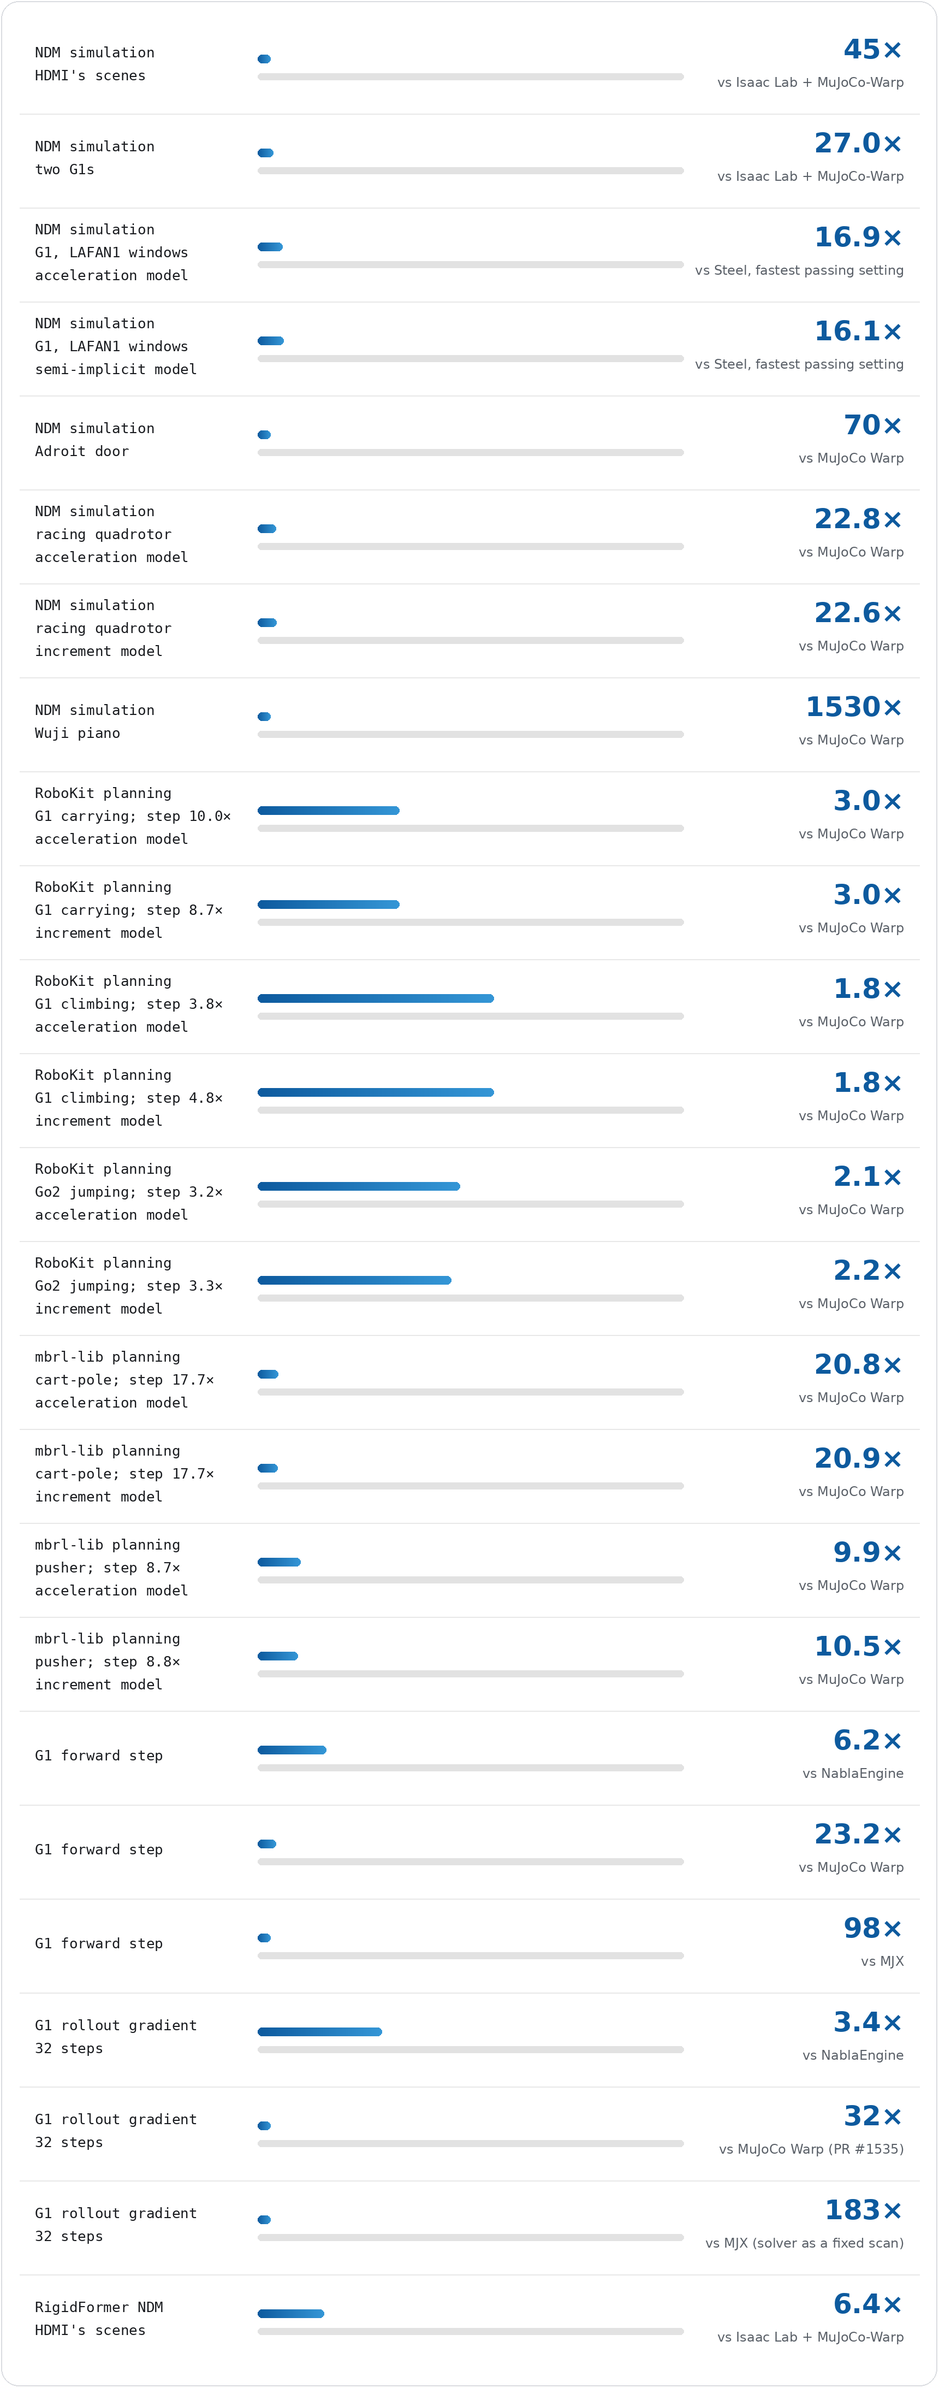
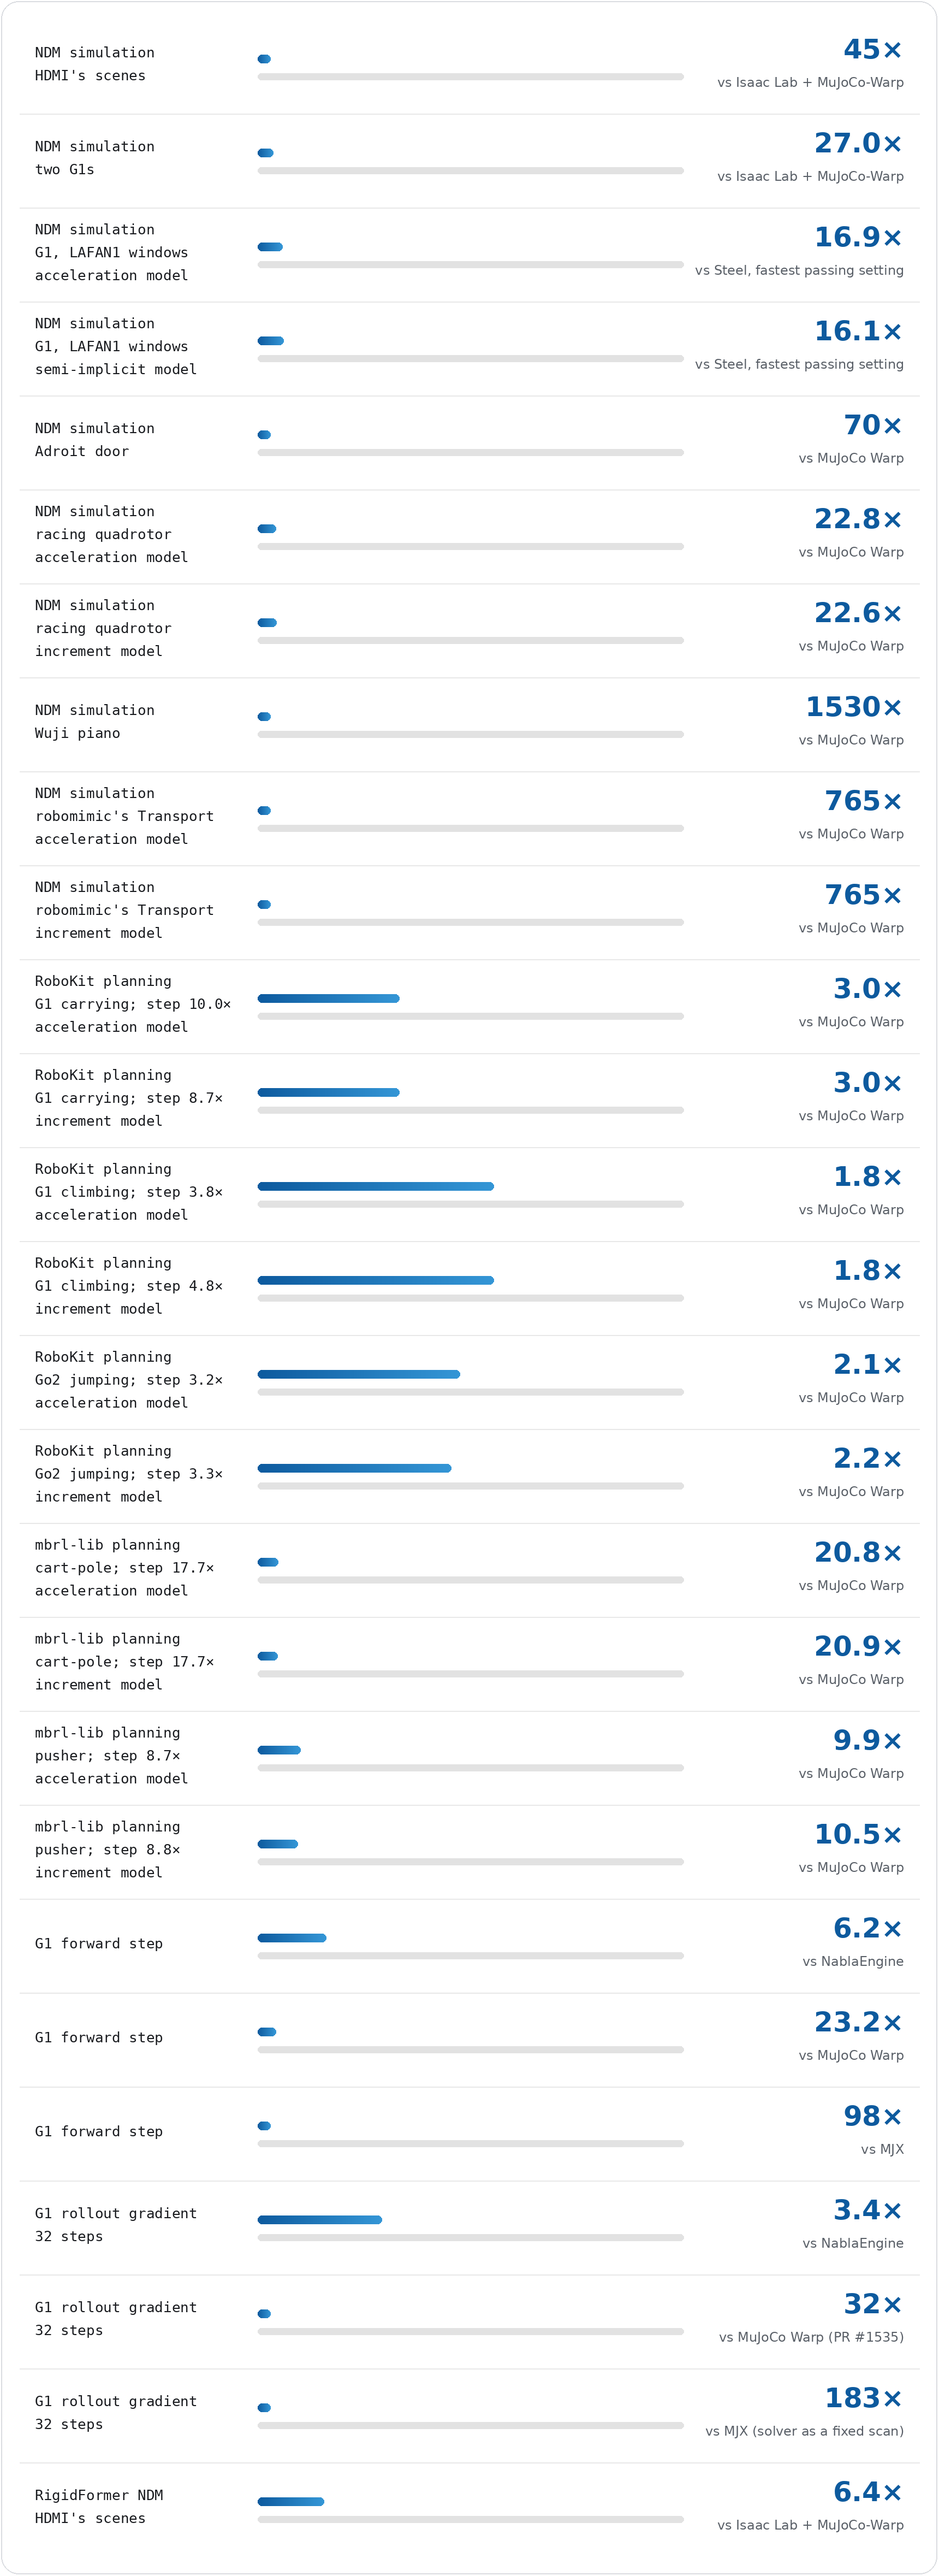
Manipulation tracking: the world model as the simulator (one A100 40GB SXM4, not engineered): the seed-0 finals' models as bf16 copies run 765x MuJoCo Warp's control step on Transport at 4,096 worlds (11.63 M and 11.01 M world-steps/s), Lift 256x / 251x, Square 725x / 778x; the speed chart's two Tra

diff --git a/tools/make_speedup_chart.py b/tools/make_speedup_chart.py
@@ -17,6 +17,8 @@ FONT_DIR = "/usr/share/fonts/truetype/dejavu/"
 # (benchmarks/quadrotor_racing_tracking/results_a100.md),
 # the Wuji piano's: the task's PianoDynamics with its networks in bf16 (compiled, one CUDA graph) on the policy's observed state against
 # MuJoCo Warp's control step of the full scene, SuperTrack's horizon-3 model (the other three within 1 %; benchmarks/wuji_piano/results_a100.md),
+# robomimic's Transport: the seed-0 finals' acceleration and increment models as bf16 copies (compiled, one CUDA graph) against MuJoCo Warp's control
+# step of the training's scene (benchmarks/robomimic_manipulation_tracking/results.md),
 # RoboKit's, whose bars are its examples' whole planning time at the planner's own worlds on the acceleration and on the
 # increment model, the median over twenty plans (planner seeds 0-9, twice), with the simulation step's speedup in the second
 # line and the model in a third (benchmarks/robokit_ndm/results.md), and mbrl-lib's, whose bars
@@ -32,6 +34,8 @@ ROWS = [
     ("NDM simulation", "racing quadrotor\nacceleration model", 22.8, "vs MuJoCo Warp"),
     ("NDM simulation", "racing quadrotor\nincrement model", 22.6, "vs MuJoCo Warp"),
     ("NDM simulation", "Wuji piano", 1530.5, "vs MuJoCo Warp"),
+    ("NDM simulation", "robomimic's Transport\nacceleration model", 765.1, "vs MuJoCo Warp"),
+    ("NDM simulation", "robomimic's Transport\nincrement model", 764.9, "vs MuJoCo Warp"),
     ("RoboKit planning", "G1 carrying; step 10.0×\nacceleration model", 3.0, "vs MuJoCo Warp"),
     ("RoboKit planning", "G1 carrying; step 8.7×\nincrement model", 3.0, "vs MuJoCo Warp"),
     ("RoboKit planning", "G1 climbing; step 3.8×\nacceleration model", 1.8, "vs MuJoCo Warp"),

diff --git a/README.md b/README.md
@@ -87,6 +87,7 @@ MuJoCo model.
 | NDM simulation: the Adroit door ([details](benchmarks/adroit_door/results_a100.md#the-world-model-as-the-simulator)) | world-steps per second at 16,384 worlds: SuperTrack's acceleration model as a bf16 copy, 27.62 M against MuJoCo Warp's 0.396 M (69.7x); SuperMimic's increment model 27.14 M against 0.422 M (64.3x); 1,629x / 1,600x the contributed native MuJoCo collector on eight CPU cores (16,962 world-steps/s). The bf16 step is 64 % / 66 % matrix products, the rest compiled elementwise kernels | one A100 40GB SXM4 |
 | NDM simulation: the racing quadrotor ([details](benchmarks/quadrotor_racing_tracking/results_a100.md#the-world-model-as-the-simulator)) | world-steps per second at 4,096 worlds, the fused step in fp32 (TF32 products) with the network as one kernel: SuperTrack's acceleration model 74.3 M against MuJoCo Warp's 3.26 M (22.8x); SuperMimic's increment model 73.7 M against 3.27 M (22.6x); with the network compiled layer by layer 19.6x / 19.0x. The network is 85 % of the step | one A100 40GB SXM4 |
 | NDM simulation: the Wuji piano ([details](benchmarks/wuji_piano/results_a100.md#the-world-model-as-the-simulator)) | world-steps per second at 4,096 worlds: the horizon-3 SuperTrack run's `PianoDynamics` with its networks in bf16 (compiled, one CUDA graph), 46.24 M against MuJoCo Warp's 30,213 for a control step of the full scene (1,530x; the four seed-0 models, both algorithms at both horizons, 1,523-1,530x). The model steps the policy's 192-number observed state; its due-key error is 0.15 / 0.19 / 0.26 of a key's travel at 1 / 3 / 10 steps, the horizon-3 SuperMimic model's 0.16 / 0.19 / 0.32 | one A100 40GB SXM4 |
+| NDM simulation: robomimic's Transport ([details](benchmarks/robomimic_manipulation_tracking/results.md#the-world-model-as-the-simulator)) | world-steps per second at 4,096 worlds, not engineered: the seed-0 finals' world models as bf16 copies (compiled, one CUDA graph), SuperTrack's acceleration model 11.63 M against MuJoCo Warp's 15,196 for a control step of the training's scene (765x), SuperMimic's increment model 11.01 M against 14,390 (765x); Lift 256x / 251x and Square 725x / 778x | one A100 40GB SXM4 |
 | the G1's forward step and the gradient of a 32-step rollout ([details](benchmarks/ndm_speed/results.md)) | SuperTrack's MLP world model against NablaEngine, MuJoCo Warp with the adjoint of its pull request #1535 and MJX, each in its faster setting | one A100 40GB |
 | RoboKit planning ([details](benchmarks/robokit_ndm/results.md)) | the example's whole planning time at the planner's own worlds on the acceleration and on the increment model, the median over twenty plans (planner seeds 0-9, twice; the acceleration model's G1 box carrying over ten, seeds 0-9 once); the simulation step's speedup beside the task | one A100 40GB SXM4 |
 | mbrl-lib planning ([details](benchmarks/mbrl_lib/results.md)) | the planner's time per executed step on the acceleration and on the increment model, timed in one session, the median over three planner seeds; the step's speedup at 4,096 worlds beside the task | one A100 80GB SXM4 |
@@ -144,6 +145,7 @@ re-verified on an A100. Manipulation: Lift / Square / Transport; the target is t
 | **[NDM as the simulator](#adroit-door-tracking)**, the Adroit door, 16,384 worlds on an A100 40GB SXM4 | 🚀 fastest | SuperTrack's acceleration model and SuperMimic's increment model, MLPs as bf16 copies, level | **27.62 M** and **27.14 M world-steps/s**, 69.7x and 64.3x MuJoCo Warp, which was timed beside each model on that model's states (0.396 M and 0.422 M), 1,629x and 1,600x the contributed collector on eight CPU cores; at 4,096 worlds 20.85 M and 21.55 M ([results](benchmarks/adroit_door/results_a100.md#the-world-model-as-the-simulator)) |
 | **[NDM as the simulator](#quadrotor-trajectory-tracking)**, the racing quadrotor, 4,096 worlds on an A100 40GB SXM4 | ⏱ throughput, not engineered | SuperTrack's acceleration model and SuperMimic's increment model, MLPs, the fused step in fp32, the network as one kernel | **74.3 M** and **73.7 M world-steps/s**, 22.8x and 22.6x MuJoCo Warp's 3.26 M / 3.27 M; 34.2x / 34.1x at 1,024 worlds, 11.5x at 65,536 ([results](benchmarks/quadrotor_racing_tracking/results_a100.md#the-world-model-as-the-simulator)) |
 | **[NDM as the simulator](#wuji-hand-piano-playing)**, the Wuji piano, 4,096 worlds on an A100 40GB SXM4 | ⏱ throughput, not engineered | the task's `PianoDynamics`, its networks in bf16 (both algorithms' models within 1 %) | **46.2 M world-steps/s**, 1,530x MuJoCo Warp's 30,213 for a control step of the full scene; the model steps only the policy's 192-number observed state, a due key's depth off by 0.15 / 0.19 / 0.26 of its travel at 1 / 3 / 10 steps (SuperTrack's horizon-3 model; SuperMimic's 0.16 / 0.19 / 0.32; the lowest of the four seed-0 models, SuperMimic's horizon-8 one, 0.09 / 0.10 / 0.13) ([results](benchmarks/wuji_piano/results_a100.md#the-world-model-as-the-simulator)) |
+| **[NDM as the simulator](#manipulation-demonstration-tracking)**, robomimic's Transport, 4,096 worlds on an A100 40GB SXM4 | ⏱ throughput, not engineered | SuperTrack's acceleration model and SuperMimic's increment model, MLPs as bf16 copies | **11.63 M** and **11.01 M world-steps/s**, 765x MuJoCo Warp's 15,196 and 14,390 for a control step of the scene (25 physics steps); Lift 256x / 251x, Square 725x / 778x ([results](benchmarks/robomimic_manipulation_tracking/results.md#the-world-model-as-the-simulator)) |
 | **[NDM as the simulator](#ndms-against-steel-the-g1)**, the G1 on LAFAN1's replay windows, 4,096 worlds on an A100 40GB SXM4 | 🚀 fastest | SuperTrack's acceleration model and SuperMimic's semi-implicit model (`lafan1-supertrack-accurate`, `lafan1-supermimic-accurate`), MLPs as bf16 copies with the fused step | **14.80 M** and **14.06 M control steps/s**, 16.9x and 16.1x Steel's fastest setting that passes the accuracy criteria (0.875 M), 42.4x and 40.2x MuJoCo Warp in Isaac Lab (0.349 M); body error after 32 steps 19.6 and 22.8 mm, Steel's 30.2 mm; on four GPUs 89.2 M and 87.1 M, Steel's 4.13 M ([results](benchmarks/steel/results.md)) |
 | **[NDM as the simulator](#ndms-as-simulators-hdmis-scenes)**, HDMI's move_suitcase, 4096 worlds on an H100 | ⏱ throughput, not engineered | the MLP world model (acceleration parameterization) as a bf16 copy | **16.28 M env-steps/s**, 45.9x the physics engine's 0.35 M; RigidFormer 2.30 M, 6.5x; the increment parameterization was not timed ([results](benchmarks/ndm_speed/results.md)) |
 
@@ -1379,6 +1381,11 @@ Lift and Square (SuperMimic's: 0.92 / 7.62 / 6.73 mm; 1.32 / 6.88 min, Square in
   by one rule on another seed: SuperTrack's preset with imagination noise 0, SuperMimic's preset.
 - **Evaluation:** MuJoCo-Warp's contact order is not deterministic; two evaluations of one checkpoint differ by about 4
   points of success on Transport.
+- **The world model as the simulator:** one network evaluation stands in for the 25 physics steps of the control step it
+  predicts, each with its collision detection and constraint solve. At 4,096 worlds on one A100 40GB SXM4 the bf16 copies
+  run 11.63 M (SuperTrack's acceleration model) and 11.01 M (SuperMimic's increment model) world-steps per second on
+  Transport, 765 times MuJoCo-Warp's control step; Lift 256x / 251x, Square 725x / 778x; not engineered
+  ([every count](benchmarks/robomimic_manipulation_tracking/results.md#the-world-model-as-the-simulator)).
 
 | | Lift | Square | Transport |
 |---|---|---|---|

diff --git a/benchmarks/robomimic_manipulation_tracking/results.md b/benchmarks/robomimic_manipulation_tracking/results.md
@@ -99,6 +99,36 @@ beside it.
 On Lift and Square SuperTrack reaches the target at the second kept checkpoint (500 iterations) in every run, with the
 lower object error on Lift (0.60 against 2.30 mm) and about the same on Square (4.48 against 4.53 mm).
 
+## The world model as the simulator
+
+One step of the world model, one network evaluation, stands in for the 25 physics steps of the 50 ms control step it
+predicts, each with its collision detection and its constraint solve (20 iterations). `ndm_gym.wmbench.speed_robomimic`
+times both on one A100 40GB SXM4 with nothing else on the machine: MuJoCo-Warp's control step of the training's scene (one
+CUDA graph) and the seed-0 final's world model (its stop checkpoint) in fp32 (its step one CUDA graph) and as a bf16
+inference copy (compiled, one CUDA graph). Every world starts from a frame of the final's nominal test rollout and holds
+the reference's targets of that frame. World-steps per second, the median of 5 runs of 200 steps; not engineered (no
+per-phase table).
+
+| task | world model | worlds | MuJoCo-Warp | fp32 | bf16 | bf16 against MuJoCo-Warp |
+|---|---|---|---|---|---|---|
+| Transport | SuperTrack's acceleration model | 1,024 | 10,662 | 0.634 M | 4.78 M | 448x |
+| | | 4,096 | 15,196 | 1.48 M | 11.63 M | 765x |
+| | SuperMimic's increment model | 1,024 | 10,164 | 0.619 M | 4.41 M | 434x |
+| | | 4,096 | 14,390 | 1.44 M | 11.01 M | 765x |
+| Lift | SuperTrack's acceleration model | 1,024 | 29,621 | 1.51 M | 10.46 M | 353x |
+| | | 4,096 | 78,335 | 2.56 M | 20.02 M | 256x |
+| | SuperMimic's increment model | 1,024 | 29,369 | 1.42 M | 10.04 M | 342x |
+| | | 4,096 | 79,765 | 2.54 M | 20.03 M | 251x |
+| Square | SuperTrack's acceleration model | 1,024 | 15,290 | 1.20 M | 7.85 M | 513x |
+| | | 4,096 | 24,679 | 2.24 M | 17.89 M | 725x |
+| | SuperMimic's increment model | 1,024 | 13,524 | 1.18 M | 7.57 M | 560x |
+| | | 4,096 | 21,863 | 2.19 M | 17.01 M | 778x |
+
+The control step's cost grows with the scene and its contacts: at 4,096 worlds Lift's one arm and cube take 52 ms a step,
+Transport's two arms, bins and objects 270-285 ms. The world model's step grows only with the state it predicts: 0.21,
+0.23 and 0.35 ms on Lift, Square and Transport (SuperTrack's bf16 copies). MuJoCo-Warp's numbers differ a little between
+the two models of a task because their worlds start from each final's own rollout.
+
 ## Configurations
 
 Each algorithm's configuration is one of four, chosen by one rule before these runs: the hand task's accurate preset and

diff --git a/docs/tasks/robomimic.md b/docs/tasks/robomimic.md
@@ -81,7 +81,8 @@ within 0.41 / 1.45 / 5.42 mm on Lift / Square / Transport, the target after 1.04
 100 / 69.5 / 54.9 %, 0.92 / 7.62 / 6.73 mm, 1.32 / 6.88 min (Square in 2 of 3 runs) / not reached (time to the target, not
 engineered). Success is robosuite's test at the demonstration's last frame on a rollout that never terminated, a tracking
 proxy; MuJoCo-Warp's contact order is not deterministic, and two evaluations of one checkpoint differ by about 4 points on
-Transport.
+Transport. As the simulator, the world models' bf16 copies run 765 times MuJoCo-Warp's control step on Transport at 4,096
+worlds (11.63 M and 11.01 M world-steps per second on one A100 40GB SXM4; not engineered).
 
 ![SuperTrack and SuperMimic on Lift, Square and Transport](https://raw.githubusercontent.com/Frank-ZY-Dou/ndm-gym/main/docs/media/robomimic/grid.webp)
 
